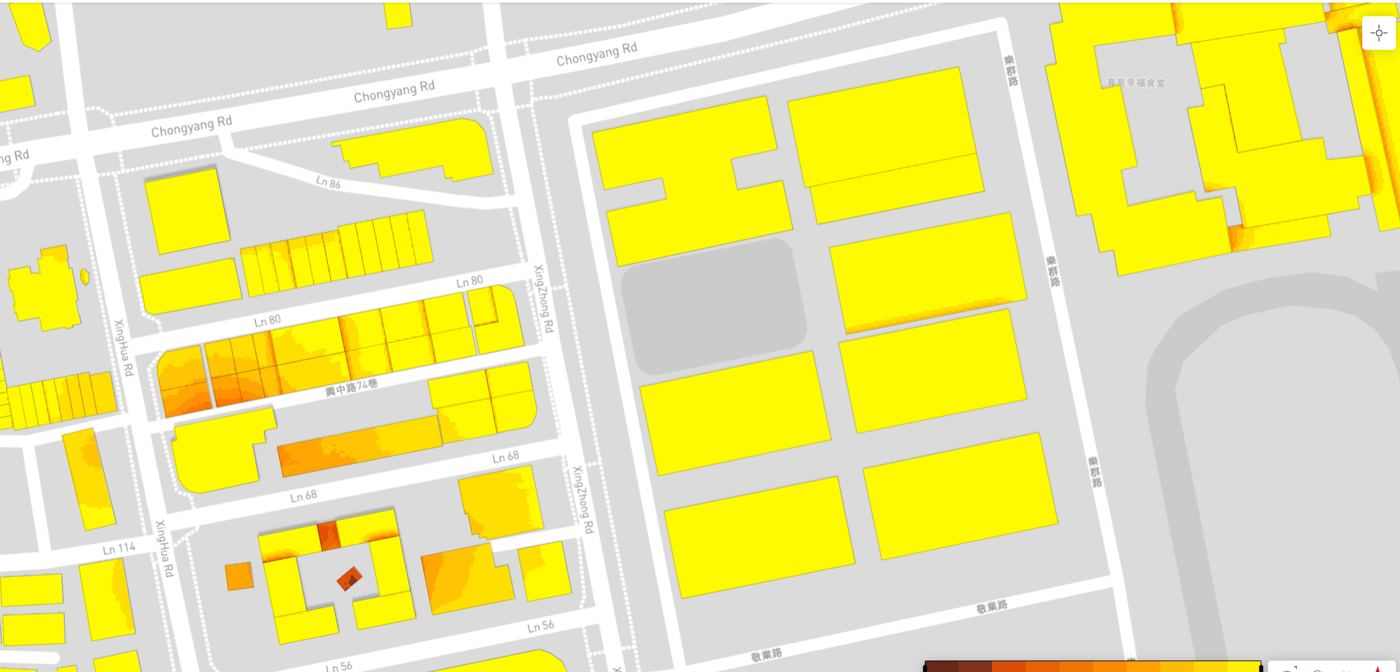
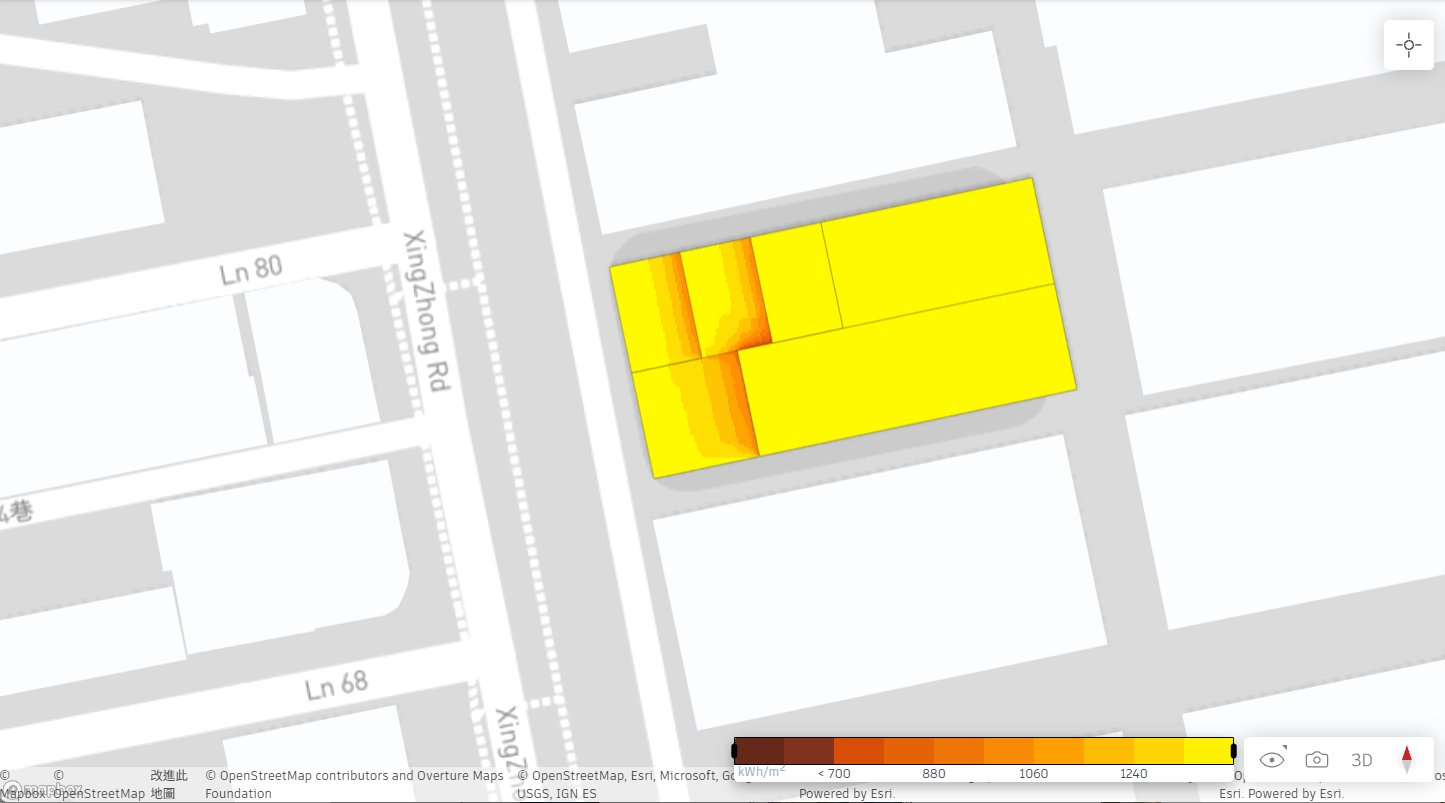
展示網頁 08 太陽能：換成 G3 量體的 Forma 太陽能分析截圖與數字（屋頂 1,801 m²、覆蓋 60%、年發電 17.8 萬 kWh）
Claude-Session: https://claude.ai/code/session_01736yPnFtzh9eBfCJERSdPn

diff --git a/showcase/index.html b/showcase/index.html
@@ -862,12 +862,12 @@ const CH = [
 
   { k: '太陽能', cam: [-30, 52, 160, 0, 10, 0], sets: ['pv'], pv: true, html: () => `
     ${eb(8, '能源｜屋頂光電潛力')}
-    <h2>頂層屋頂<br>一年約 13 萬度電</h2>
-    <p class="lead">G3 頂層屋頂 1,275 m²，用一半面積放太陽能板，另一半留給設備與維修，估計<em>每年約 132,000 kWh</em>。</p>
+    <h2>屋頂光電<br>一年約 17.8 萬度電</h2>
+    <p class="lead">G3 量體各層屋頂共 1,801 m²，平均每 m² 每年日照 1,360 kWh。60% 面積（1,080 m²）放光電效率 15% 的太陽能板，其餘留給設備與維修，<em>每年約 178,000 kWh</em>。</p>
     <div class="rule"></div>
-    <div class="stats">${stat('1,275', 'm²', '頂層屋頂')}${stat('50', '%', '光電覆蓋')}${stat('13.2', '萬 kWh', '年發電量', true)}</div>
+    <div class="stats">${stat('1,801', 'm²', '屋頂面積')}${stat('60', '%', '光電覆蓋')}${stat('17.8', '萬 kWh', '年發電量', true)}</div>
     <p class="note">資料來源：Autodesk Forma 太陽能分析。</p>
-    <div class="figs one" style="margin-top:18px">${fig('solar', 'Forma 太陽能分析（無量體，屋頂潛力）')}</div>` },
+    <div class="figs one" style="margin-top:18px">${fig('solar', 'Forma 太陽能分析（G3 量體屋頂）')}</div>` },
 
   { k: '量體比選', cam: [0, 24, 470, -GAP * 1.1, 8, 0], sets: ['cmp'], compare: true, html: () => `
     ${eb(9, '三量體比選｜依分析結果')}
